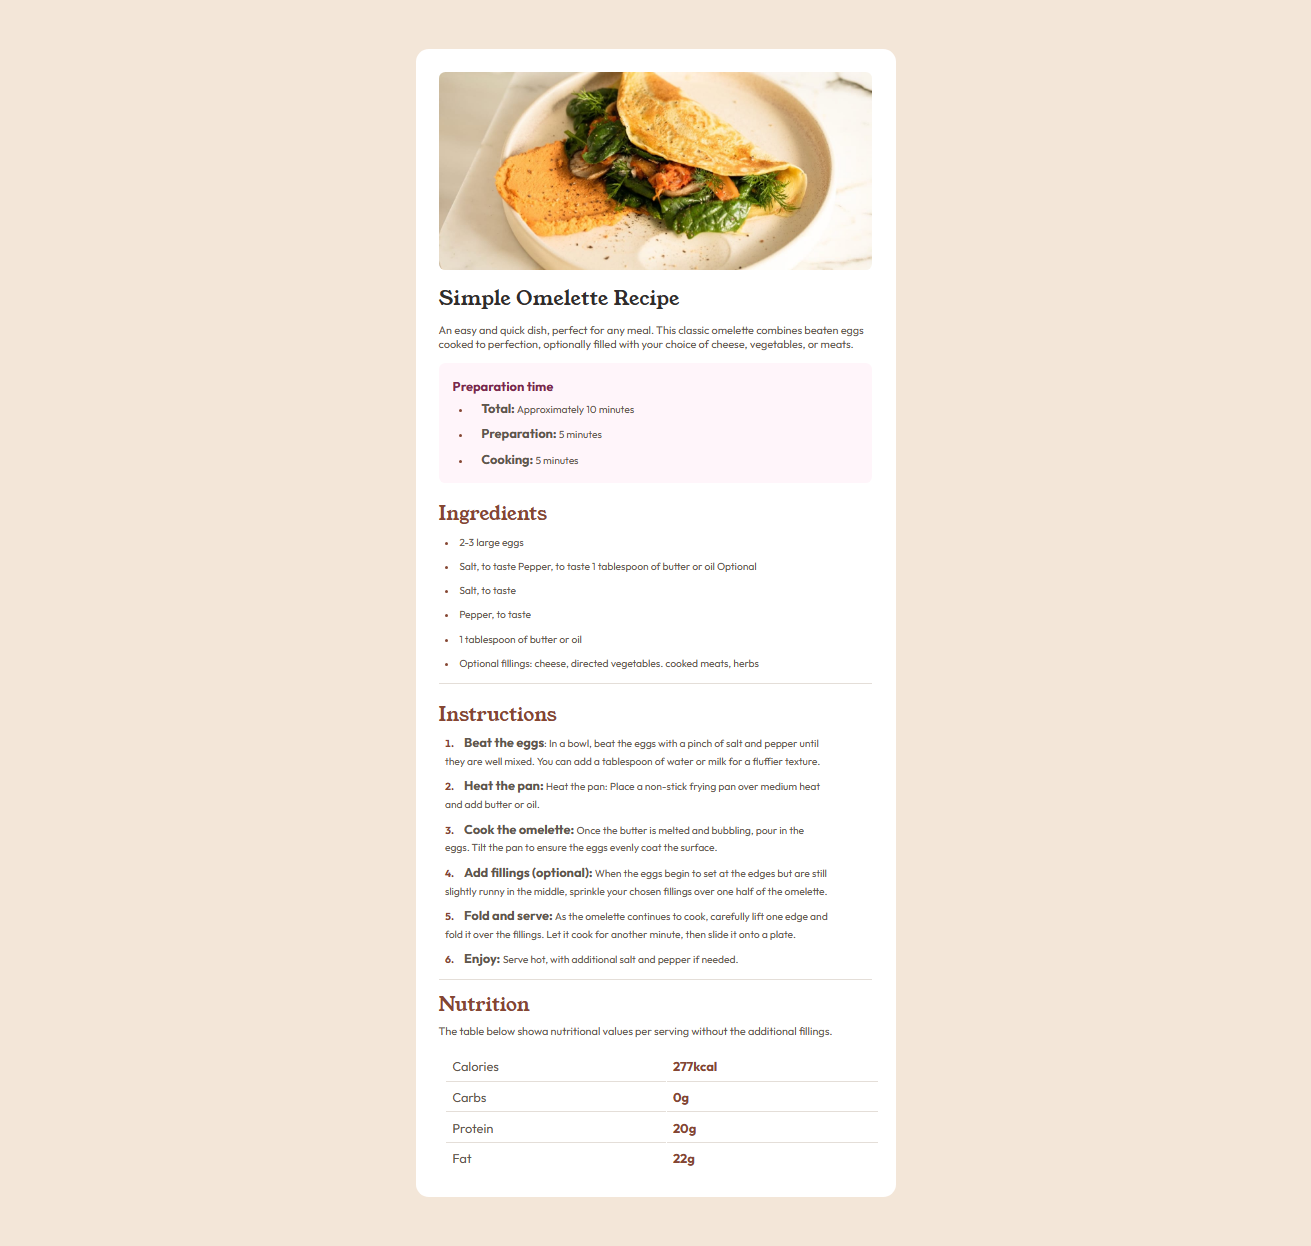
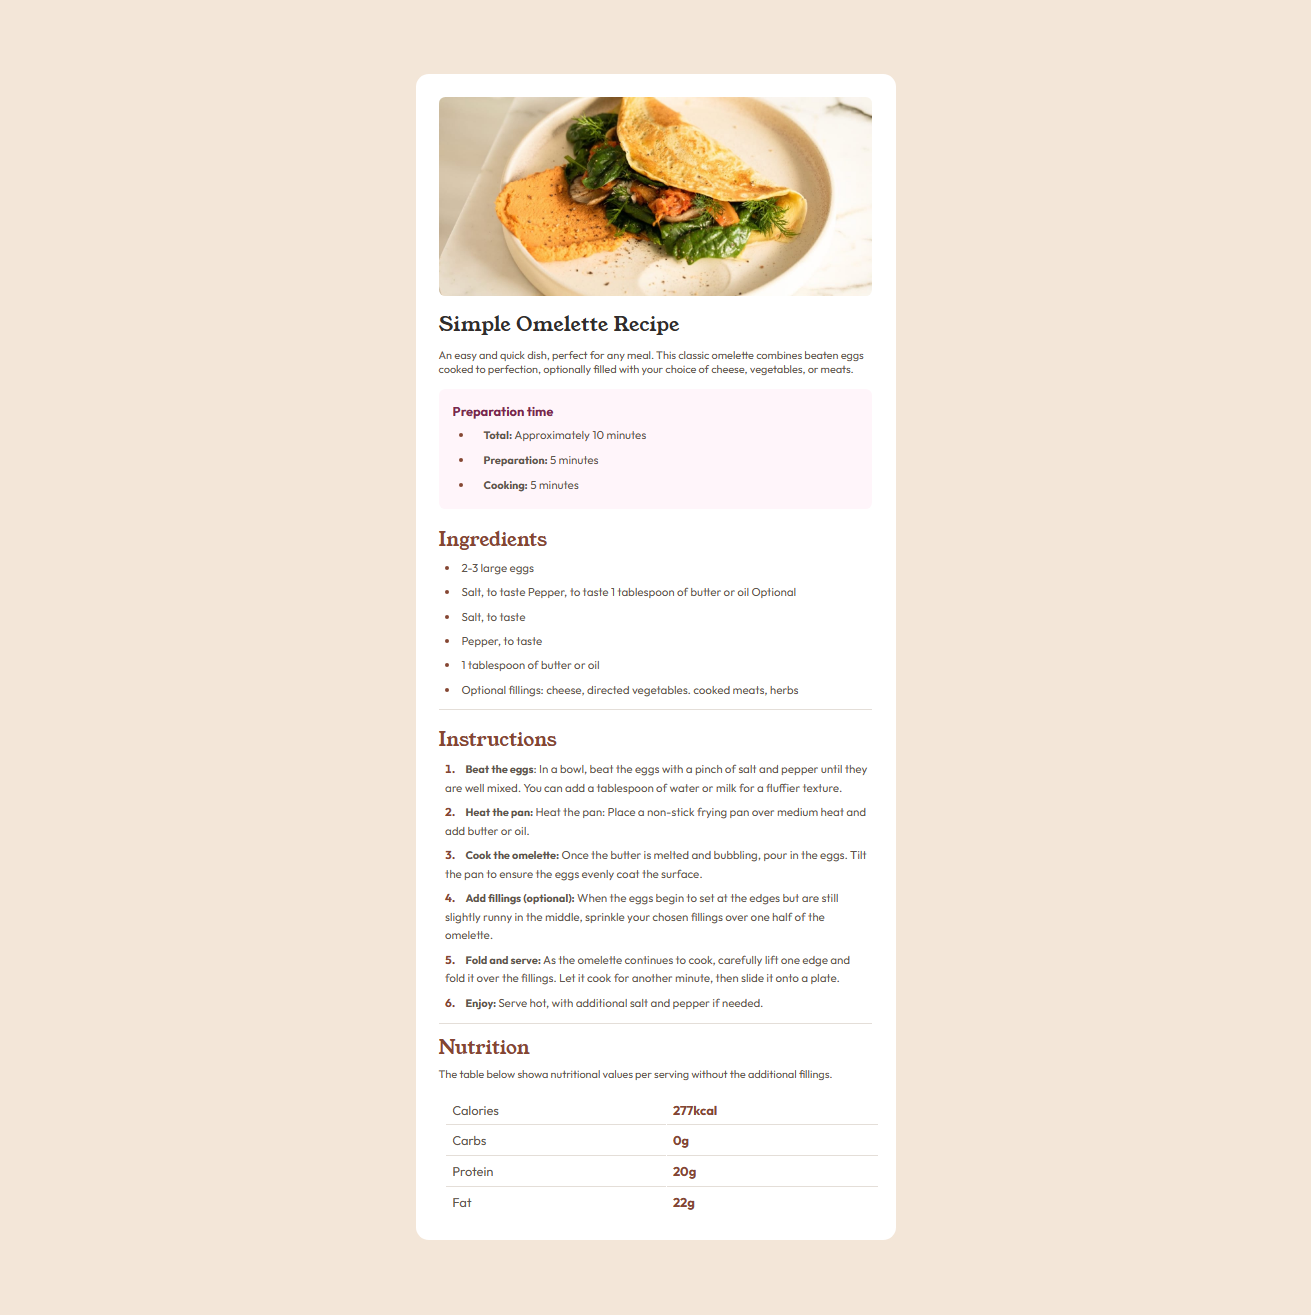
fix

Changed region(s): [[0.3051, 0.0305, 0.7018, 0.9759]]

diff --git a/recipe-page-main/style.css b/recipe-page-main/style.css
@@ -19,7 +19,7 @@ body {
   display: flex;
   align-items: center;
   justify-content: center;
-  height: 180vh;
+  height: 190vh;
 }
 section {
   padding: 0.8rem 0;
@@ -59,7 +59,7 @@ ol {
 }
 li {
   color: var(--Wenge-Brown);
-  font-size: 1rem;
+  font-size: 0.85rem;
   margin: 0.5rem 0 0;
   width: 100%;
   line-height: 1.4rem;
